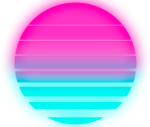
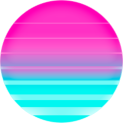
fixing planet size and do planet draw works

Changed region(s): [[0.0, 0.0, 1.0, 1.0]]

diff --git a/planet.js b/planet.js
@@ -3,7 +3,7 @@ class Planet{
   constructor(){
     this.x = windowWidth/2;
     this.y = windowHeight/2;
-    this.size = (windowWidth*5)/100;
+    this.size = (windowWidth*15)/100;
   }
   draw(){
     imageMode(CENTER);
